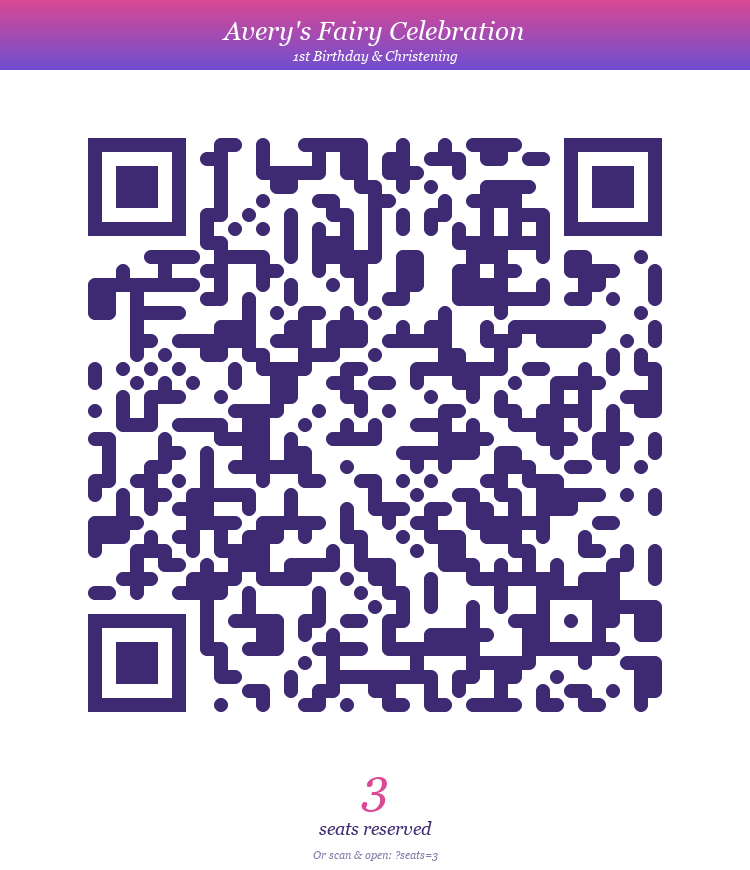
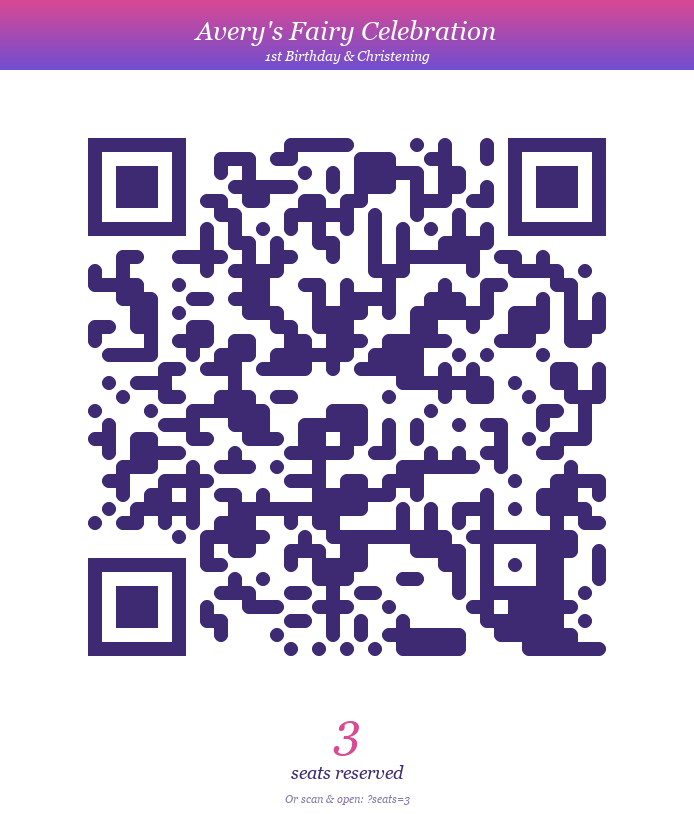
Wire the site to the www.gianna-avery.xyz custom domain
- Adds public/CNAME containing "www.gianna-avery.xyz" so every deploy
  reasserts the domain mapping on GitHub Pages (Vite copies the file
  verbatim to dist/).
- Updates the QR code generator script's default base URL and
  regenerates the seats-1..5 PNGs in qr-codes/ so the static
  printed-invite QRs already point at the live host.
- README's example URLs and "Custom domain" section refreshed to
  reference the real domain instead of the giannas-birthday.example.com
  placeholder.

Vite's relative `base: './'` already produces asset URLs that work at
the root of a custom domain, so no Vite config change needed. The
GitHub Actions workflow's actions/configure-pages step will see the
empty base path and pass `/` as VITE_BASE_PATH, which is the correct
behaviour for a custom-domain site.

diff --git a/scripts/generate-qr-codes.py b/scripts/generate-qr-codes.py
@@ -19,7 +19,7 @@ from qrcode.image.styles.moduledrawers.pil import RoundedModuleDrawer
 from qrcode.image.styles.colormasks import SolidFillColorMask
 from PIL import Image, ImageDraw, ImageFont
 
-DEFAULT_BASE_URL = "https://iel0000.github.io/gianna-birthday/"
+DEFAULT_BASE_URL = "http://www.gianna-avery.xyz/"
 OUTPUT_DIR = "qr-codes"
 SEAT_COUNTS = range(1, 6)
 

diff --git a/README.md b/README.md
@@ -104,7 +104,7 @@ VITE_EMAILJS_PUBLIC_KEY=xxxxxxxxxxxxxxxx
 VITE_HOST_EMAIL=
 # Optional — used to build the "View or update your RSVP" link in the guest email.
 # Falls back to window.location.origin if unset (works fine for most setups).
-VITE_SITE_URL=https://giannas-birthday.example.com
+VITE_SITE_URL=http://www.gianna-avery.xyz
 ```
 
 6. Restart `npm run dev`. Until configured, RSVPs still save locally and the form will tell you emails aren't wired yet.
@@ -204,7 +204,7 @@ gianna-birthday/
 You can send each guest (or family) a link with a pre-allocated seat count. The guest still enters their name and email on the login screen — the URL only carries the seat count, never personal info:
 
 ```
-https://giannas-birthday.example.com/?seats=4
+http://www.gianna-avery.xyz/?seats=4
 ```
 
 When the guest opens the link:
@@ -262,4 +262,6 @@ That's it. Push to `main` and the [Deploy to GitHub Pages](.github/workflows/dep
 
 ### Custom domain
 
-Add a `CNAME` file in `public/` containing your domain (e.g. `giannas-birthday.com`). Set the DNS records per [GitHub's docs](https://docs.github.com/en/pages/configuring-a-custom-domain-for-your-github-pages-site/managing-a-custom-domain-for-your-github-pages-site), then in **Settings → Pages**, enter the custom domain. The workflow will detect the empty base path and asset URLs adjust automatically.
+This site is configured for the custom domain **www.gianna-avery.xyz** via the [`public/CNAME`](public/CNAME) file. Vite copies the file to `dist/` on every build, so each deploy reasserts the domain on GitHub Pages.
+
+To change the domain: edit `public/CNAME` to the new host, set the matching DNS records per [GitHub's docs](https://docs.github.com/en/pages/configuring-a-custom-domain-for-your-github-pages-site/managing-a-custom-domain-for-your-github-pages-site), then in *Settings → Pages* re-enter the new domain. The deploy workflow detects the empty base path and asset URLs adjust automatically.
